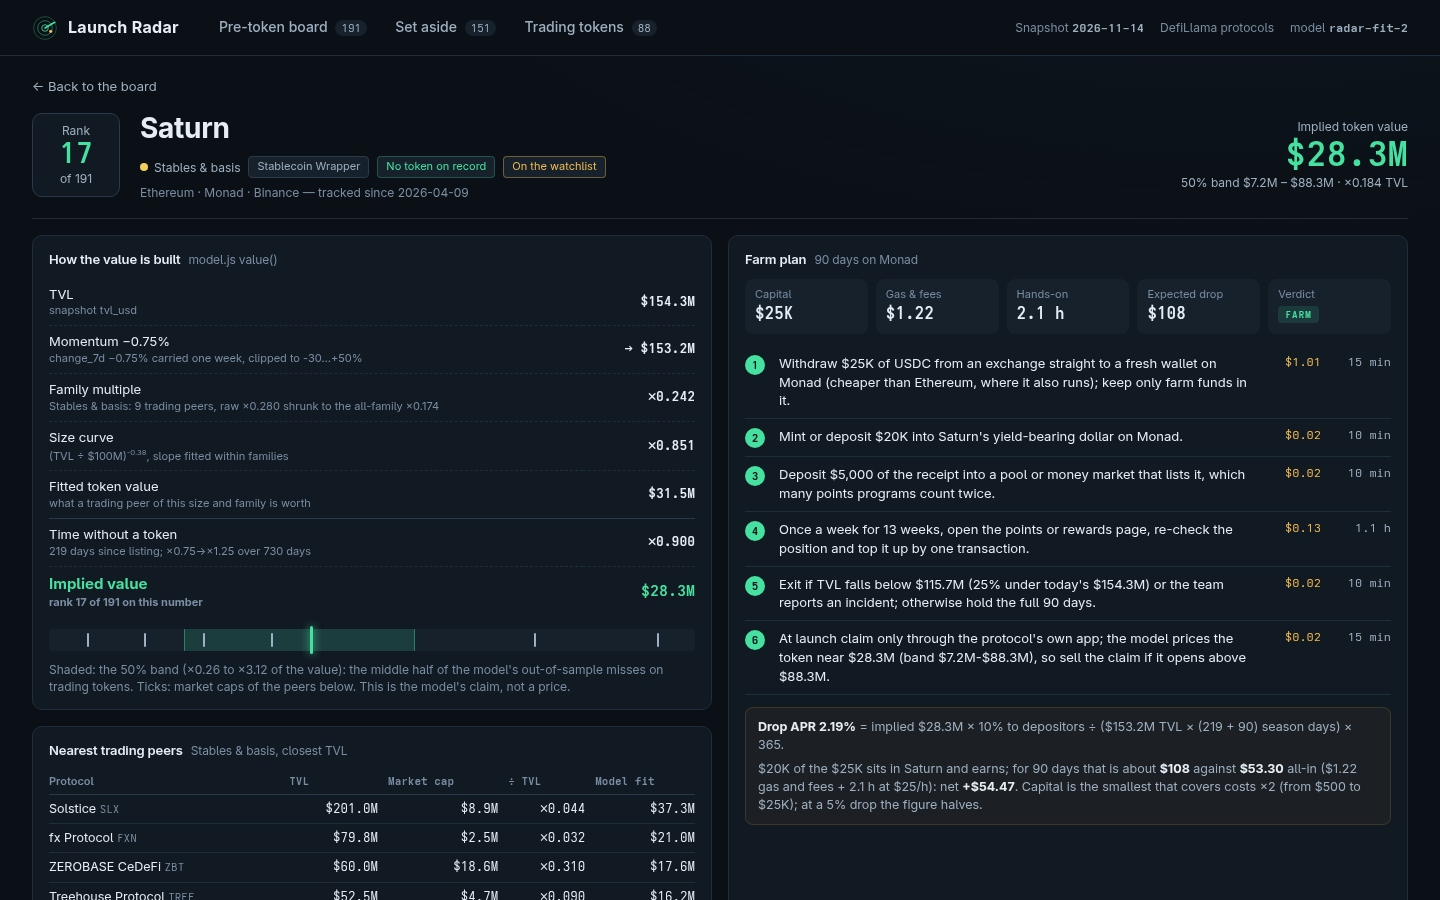
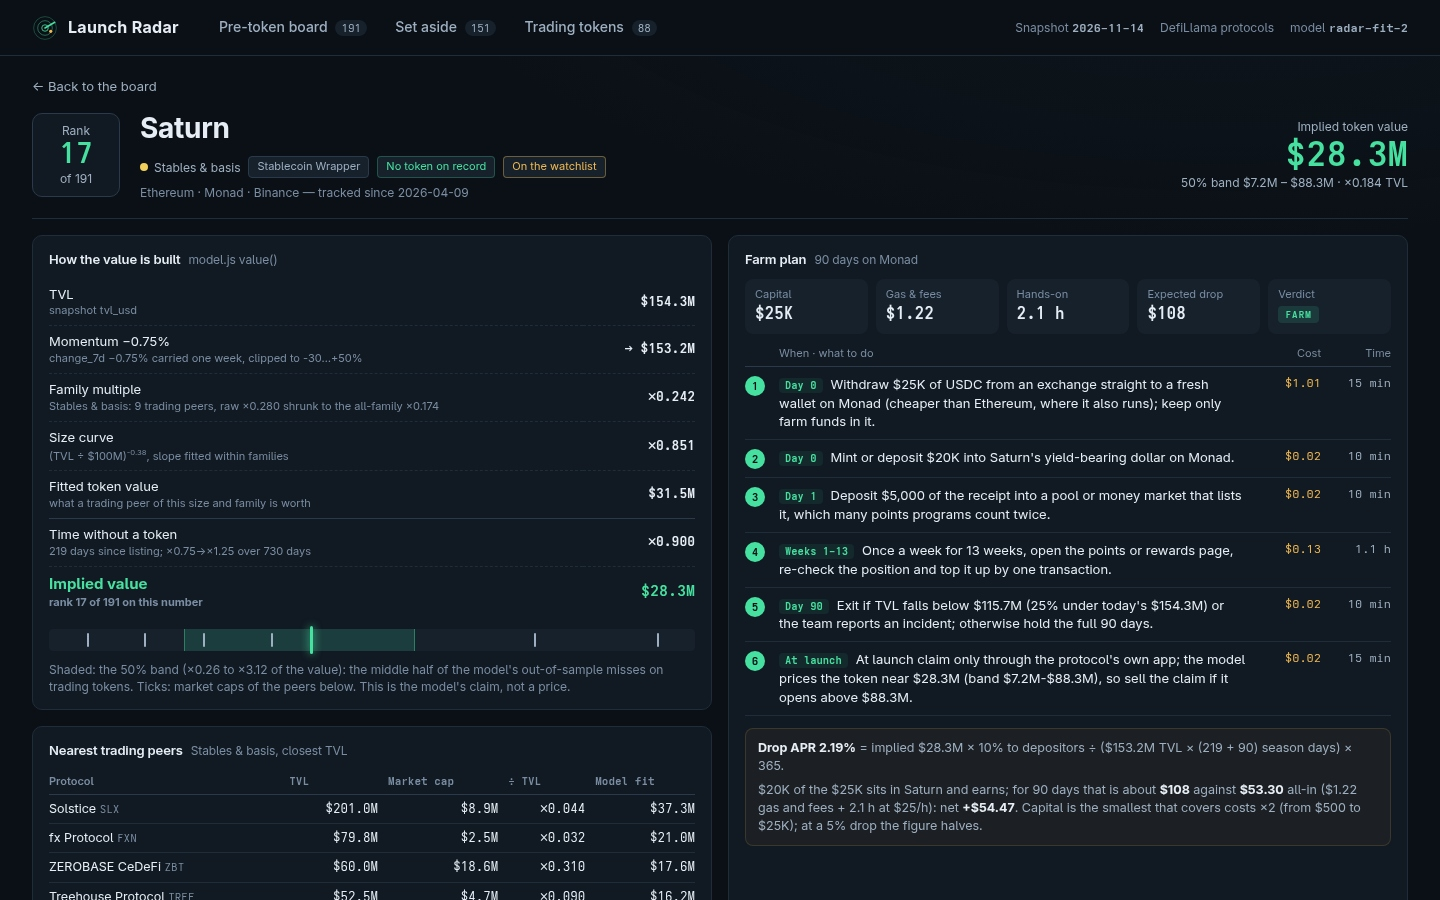
Farm plans as a timeline: a when for every step; drop vs cost on the board

Changed region(s): [[0.5, 0.3733, 0.9688, 0.9333], [0.875, 0.5911, 0.9062, 0.6533], [0.875, 0.6844, 0.9062, 0.7156]]

diff --git a/dashboard/app.js b/dashboard/app.js
@@ -131,7 +131,7 @@
         <td class="val"><span class="bar"><i style="width:${w.toFixed(1)}%"></i></span><b>${usd(r.v.implied)}</b><small>${usd(r.v.low)}–${usd(r.v.high)}</small></td>
         <td class="num">${mult(r.v.multiple)}</td>
         <td class="num apr">${(r.v.apr * 100).toFixed(1)}%</td>
-        <td class="plan">${verdictTag(r.plan.verdict)}<small>${mult(r.plan.drop / r.plan.all_in)} · ${usd(r.plan.stake)} on ${esc(r.plan.chain)}</small></td></tr>`;
+        <td class="plan">${verdictTag(r.plan.verdict)}<small>${usd(r.plan.drop)} drop vs ${usd(r.plan.all_in)} cost · ${usd(r.plan.stake)} on ${esc(r.plan.chain)}</small></td></tr>`;
     }).join('');
     return `<section class="hero">
       <div class="lead">
@@ -156,7 +156,7 @@
     </section>
     <section class="filters"><div class="chips" role="group" aria-label="Family">${famLinks}</div></section>
     <div class="tablewrap"><table class="board">
-      <thead><tr>${th('rank', 'Rank')}${th('name', 'Protocol')}<th>Family</th>${th('tvl', 'TVL', 'num')}${th('g', '7d', 'num')}${th('age', 'No token', 'num')}${th('value', 'Implied value · 50% band', 'val')}${th('multiple', '÷ TVL', 'num')}${th('apr', 'Drop APR', 'num')}${th('plan', 'Farm plan · drop ÷ cost', 'plan')}</tr></thead>
+      <thead><tr>${th('rank', 'Rank')}${th('name', 'Protocol')}<th>Family</th>${th('tvl', 'TVL', 'num')}${th('g', '7d', 'num')}${th('age', 'No token', 'num')}${th('value', 'Implied value · 50% band', 'val')}${th('multiple', '÷ TVL', 'num')}${th('apr', 'Drop APR', 'num')}${th('plan', 'Farm plan · 90 days', 'plan')}</tr></thead>
       <tbody>${body || '<tr><td colspan="10" class="empty">No protocol matches these filters.</td></tr>'}</tbody></table></div>`;
   }
 
@@ -210,7 +210,8 @@
           <div><small>Expected drop</small><b>${usd(pl.drop)}</b></div>
           <div><small>Verdict</small>${verdictTag(pl.verdict)}</div>
         </div>
-        <ol class="steps">${pl.steps.map((s) => `<li><p>${esc(s.act)}.</p><span class="cost">${usd(s.usd)}</span><span class="time">${R.mins(s.min)}</span></li>`).join('')}</ol>
+        <div class="steph"><span></span><span>When · what to do</span><span>Cost</span><span>Time</span></div>
+        <ol class="steps">${pl.steps.map((s) => `<li><p><em>${esc(s.when)}</em>${esc(s.act)}.</p><span class="cost">${usd(s.usd)}</span><span class="time">${R.mins(s.min)}</span></li>`).join('')}</ol>
         <div class="math">
           <p><b>Drop APR ${(v.apr * 100).toFixed(2)}%</b> = implied ${usd(v.implied)} × ${M.drop_share * 100}% to depositors ÷ (${usd(v.tvl_next)} TVL × (${Math.min(v.age_used, M.season_days)} + ${M.farm_days}) season days) × 365.</p>
           <p>${usd(pl.eligible)} of the ${usd(pl.stake)} sits in ${esc(p.name)} and earns; for ${pl.days} days that is about <b>${usd(pl.drop)}</b> against <b>${usd(pl.all_in)}</b> all-in (${usd(pl.cost)} gas and fees + ${R.mins(pl.minutes)} at $${M.hour_usd}/h): net <b class="${pl.net >= 0 ? 'up' : 'down'}">${pl.net >= 0 ? '+' : '−'}${usd(Math.abs(pl.net))}</b>. Capital is the smallest that covers costs ×${M.target_cover} (from $500 to $25K${pl.drop < M.target_cover * pl.all_in ? ', capped here' : ''}); at a ${M.drop_share * 50}% drop the figure halves.</p>

diff --git a/dashboard/model.js b/dashboard/model.js
@@ -218,12 +218,12 @@
       var fill = function (t) { return t.replace(/USDC/g, asset).replace(/\{S\}/g, usd(stake)).replace(/\{s\}/g, usd(side)).replace(/\{N\}/g, p.name).replace(/\{C\}/g, chain); };
       return [
         { act: 'Withdraw ' + usd(stake + side) + ' of ' + asset + ' from an exchange straight to a fresh wallet on ' + chain + (chain !== main[0] ? ' (cheaper than ' + main[0] + ', where it also runs)' : '') + '; keep only farm funds in it',
-          usd: 1 + tx, min: 15 },
-        { act: fill(act[0]), usd: 2 * tx, min: v.family === 'rwa' ? 30 : 10 },
-        { act: fill(act[1]), usd: ACT2[kind](side, tx, weeks), min: kind in WEEKLY ? weeks * 10 : 10 },
-        { act: 'Once a week for ' + weeks + ' weeks, open the points or rewards page, re-check the position and top it up by one transaction', usd: weeks * tx, min: weeks * 5 },
-        { act: 'Exit if TVL falls below ' + usd(p.tvl_usd * 0.75) + ' (25% under today\'s ' + usd(p.tvl_usd) + ') or the team reports an incident; otherwise hold the full ' + M.farm_days + ' days', usd: 2 * tx, min: 10 },
-        { act: 'At launch claim only through the protocol\'s own app; the model prices the token near ' + usd(v.implied) + ' (band ' + usd(v.low) + '-' + usd(v.high) + '), so sell the claim if it opens above ' + usd(v.high), usd: 2 * tx, min: 15 }
+          usd: 1 + tx, min: 15, when: 'Day 0' },
+        { act: fill(act[0]), usd: 2 * tx, min: v.family === 'rwa' ? 30 : 10, when: v.family === 'rwa' ? 'Days 0-2' : 'Day 0' },
+        { act: fill(act[1]), usd: ACT2[kind](side, tx, weeks), min: kind in WEEKLY ? weeks * 10 : 10, when: kind in WEEKLY ? 'Weeks 1-' + weeks : 'Day 1' },
+        { act: 'Once a week for ' + weeks + ' weeks, open the points or rewards page, re-check the position and top it up by one transaction', usd: weeks * tx, min: weeks * 5, when: 'Weeks 1-' + weeks },
+        { act: 'Exit if TVL falls below ' + usd(p.tvl_usd * 0.75) + ' (25% under today\'s ' + usd(p.tvl_usd) + ') or the team reports an incident; otherwise hold the full ' + M.farm_days + ' days', usd: 2 * tx, min: 10, when: 'Day ' + M.farm_days },
+        { act: 'At launch claim only through the protocol\'s own app; the model prices the token near ' + usd(v.implied) + ' (band ' + usd(v.low) + '-' + usd(v.high) + '), so sell the claim if it opens above ' + usd(v.high), usd: 2 * tx, min: 15, when: 'At launch' }
       ];
     }
     function total(st) { var c = 0, t = 0; st.forEach(function (s) { c += s.usd; t += s.min; }); return { cost: c, min: t, all: c + t / 60 * M.hour_usd }; }
@@ -241,7 +241,7 @@
       days: M.farm_days, drop: drop, net: drop - t.all, verdict: drop >= M.target_cover * t.all ? 'farm' : drop >= t.all ? 'marginal' : 'skip' };
   }
   function stepText(s) {
-    var t = s.act + '. Cost: about ' + usd(s.usd) + '. Time: ' + mins(s.min) + '.';
+    var t = s.when + ': ' + s.act + '. Cost: about ' + usd(s.usd) + '. Time: ' + mins(s.min) + '.';
     return t.length > 600 ? t.slice(0, 597) + '...' : t;
   }
 

diff --git a/dashboard/app.css b/dashboard/app.css
@@ -161,6 +161,9 @@ td.plan small { display: inline; margin-left: 6px; }
 .steps li { display: grid; grid-template-columns: 24px 1fr 64px 60px; gap: 10px; padding: 8px 0; border-bottom: 1px solid var(--line); align-items: start; counter-increment: s; }
 .steps li::before { content: counter(s); font: 600 11px var(--mono); color: var(--bg); background: var(--accent); width: 20px; height: 20px; border-radius: 50%; display: grid; place-items: center; margin-top: 1px; }
 .steps p { margin: 0; font-size: 13px; }
+.steps em { font: normal 600 10.5px var(--mono); color: var(--accent); background: #46e0a014; border-radius: 4px; padding: 1px 6px; margin-right: 8px; white-space: nowrap; }
+.steph { display: grid; grid-template-columns: 24px 1fr 64px 60px; gap: 10px; font-size: 11px; color: var(--dim); padding-bottom: 4px; border-bottom: 1px solid var(--line2); }
+.steph span:nth-child(n+3) { text-align: right; }
 .steps .cost, .steps .time { font: 12px var(--mono); text-align: right; color: var(--amber); }
 .steps .time { color: var(--muted); }
 .math { margin-top: 12px; padding: 10px 12px; border-radius: 8px; background: #f2b9500d; border: 1px solid #f2b95026; font-size: 12.5px; color: var(--muted); }
